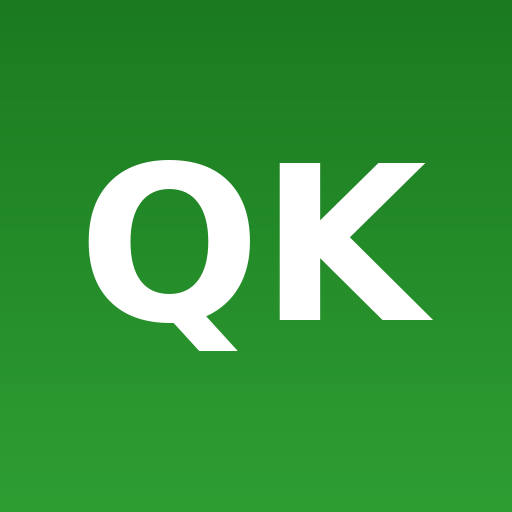
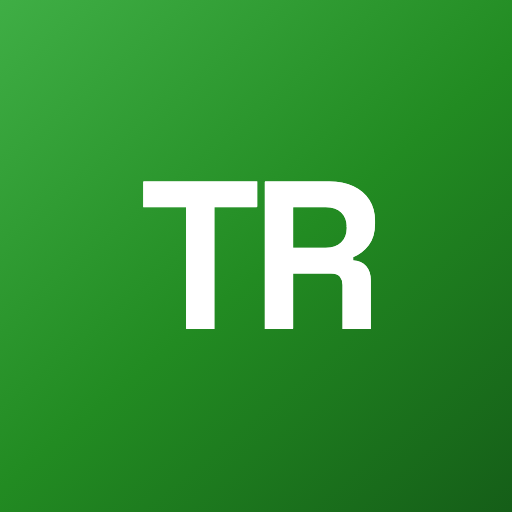
App: four daily tabs, TR branding, and a read-before-you-send nudge
The bottom bar now carries the four things an owner does every day -
Home, Quotes, Work, Money. Pipeline is called Quotes. Setup and Help
were taking two of five slots for screens people open once a month,
so they moved into the avatar sheet next to the company switcher.

Work is the shop floor for machine shops and a small hub for the
truck board and the yard for traders. Money is the Tally page. Home
gave up the machine-floor and Tally cards and is now just the
morning glance: the numbers, what you won, who needs chasing today.

Every page still maps to a nav item, so the highlight pill follows
you into the floor or the bills drill instead of guessing.

Reminders now ask first. Tapping the polite reminder opens a sheet
with the bill, the days overdue, the interest estimate and the exact
message, and only then offers WhatsApp. The message itself is
unchanged - it stays the one we wrote. Building this exposed that
the Tally page returns early for each view, so a sheet defined at
the end of the file never appeared in the drill-down where the
button actually is.

Finally the old name is gone from the icons: the home-screen icon
and all three login tiles said QK. They now carry the TR mark, and
the tagline says what the app is for rather than what it used to be.

diff --git a/src/App.jsx b/src/App.jsx
@@ -372,10 +372,18 @@ input[type=range]::-webkit-slider-thumb{-webkit-appearance:none; width:28px; hei
 `;
 
 /* ---------------- icons ---------------- */
+/* which bottom-nav item owns each page. Work is a hub - the floor, the truck
+   board and the yard all sit under it; pages missing here (setup/help, reached
+   from the avatar sheet) hide the pill rather than leave it stranded. */
+const NAV_OF = { home: "home", quotes: "quotes", work: "work", floor: "work", trucks: "work", stock: "work", tally: "tally" };
 const I = {
   home: (p) => (<svg width="23" height="23" viewBox="0 0 24 24" fill="none" {...p}><path d="M3.5 10.5 12 3.5l8.5 7v8.2a1.8 1.8 0 0 1-1.8 1.8h-3.4v-6.1H8.7v6.1H5.3a1.8 1.8 0 0 1-1.8-1.8v-8.2Z" stroke="currentColor" strokeWidth="1.8" strokeLinejoin="round"/></svg>),
   list: (p) => (<svg width="23" height="23" viewBox="0 0 24 24" fill="none" {...p}><path d="M8.5 6.5h11M8.5 12h11M8.5 17.5h11" stroke="currentColor" strokeWidth="1.8" strokeLinecap="round"/><circle cx="4.6" cy="6.5" r="1.3" fill="currentColor"/><circle cx="4.6" cy="12" r="1.3" fill="currentColor"/><circle cx="4.6" cy="17.5" r="1.3" fill="currentColor"/></svg>),
   gear: (p) => (<svg width="23" height="23" viewBox="0 0 24 24" fill="none" {...p}><circle cx="12" cy="12" r="3.2" stroke="currentColor" strokeWidth="1.8"/><path d="M12 2.8v2.6M12 18.6v2.6M21.2 12h-2.6M5.4 12H2.8M18.5 5.5l-1.9 1.9M7.4 16.6l-1.9 1.9M18.5 18.5l-1.9-1.9M7.4 7.4 5.5 5.5" stroke="currentColor" strokeWidth="1.8" strokeLinecap="round"/></svg>),
+  /* Work - a machine on the floor (not a gear: gear reads as settings) */
+  gear2: (p) => (<svg width="23" height="23" viewBox="0 0 24 24" fill="none" {...p}><rect x="3.3" y="5.6" width="17.4" height="8.4" rx="2.2" stroke="currentColor" strokeWidth="1.8"/><path d="M7.2 14v1.6M16.8 14v1.6" stroke="currentColor" strokeWidth="1.8" strokeLinecap="round"/><circle cx="7.2" cy="18" r="2.1" stroke="currentColor" strokeWidth="1.8"/><circle cx="16.8" cy="18" r="2.1" stroke="currentColor" strokeWidth="1.8"/></svg>),
+  /* Money - a rupee */
+  rupee: (p) => (<svg width="23" height="23" viewBox="0 0 24 24" fill="none" {...p}><path d="M8.2 5.4h7.6M8.2 9.3h7.6M8.2 5.4c3.5 0 5.5 1.3 5.5 3.9s-2 3.9-5.5 3.9M8.4 13.2l6.9 5.4" stroke="currentColor" strokeWidth="1.8" strokeLinecap="round" strokeLinejoin="round"/></svg>),
   plus: (p) => (<svg width="27" height="27" viewBox="0 0 24 24" fill="none" {...p}><path d="M12 5v14M5 12h14" stroke="currentColor" strokeWidth="2.4" strokeLinecap="round"/></svg>),
   back: (p) => (<svg width="21" height="21" viewBox="0 0 24 24" fill="none" {...p}><path d="m14.5 6-6 6 6 6" stroke="currentColor" strokeWidth="2" strokeLinecap="round" strokeLinejoin="round"/></svg>),
   wa: (p) => (<svg width="19" height="19" viewBox="0 0 24 24" fill="currentColor" {...p}><path d="M12 2a9.9 9.9 0 0 0-8.5 15L2 22l5.2-1.4A9.9 9.9 0 1 0 12 2Zm5.6 14c-.24.66-1.4 1.3-1.93 1.34-.52.05-1 .24-3.4-.7-2.87-1.13-4.7-4.05-4.84-4.24-.14-.19-1.16-1.55-1.16-2.95s.74-2.09 1-2.38c.26-.28.57-.35.76-.35h.55c.18 0 .42-.06.65.5.24.57.8 1.97.87 2.11.07.14.12.31.02.5-.09.19-.14.3-.28.47-.14.17-.3.37-.43.5-.14.14-.29.3-.12.58.16.28.73 1.2 1.57 1.95 1.08.96 1.99 1.26 2.27 1.4.28.14.45.12.61-.07.17-.19.7-.82.89-1.1.19-.28.38-.23.64-.14.26.1 1.65.78 1.93.92.28.14.47.21.54.33.07.12.07.66-.17 1.32Z"/></svg>),
@@ -1229,11 +1237,11 @@ function Auth({ onAuthed, authError }) {
     return (
       <div className="auth">
         <div className="auth-top">
-          <div className="auth-logo">QK</div>
+          <div className="auth-logo">TR</div>
           {/* NOT var(--grn): that is #228B22, the exact middle stop of this header's
     own gradient, so "Rakho" was invisible and the wordmark read "Track" */}
 <h1>Track<span style={{ color: "#B9F2BE" }}>Rakho</span></h1>
-          <p>Quotations in five minutes - built for India's job-shops.</p>
+          <p>{tx("Your whole business, in your pocket.", "Aapka poora business, aapki jeb mein.", "\u0906\u092A\u0915\u093E \u092A\u0942\u0930\u093E \u092C\u093F\u095B\u0928\u0947\u0938, \u0906\u092A\u0915\u0940 \u091C\u0947\u092C \u092E\u0947\u0902\u0964")}</p>
         </div>
         <div className="auth-body">
           {stage === "enter" ? (
@@ -1321,11 +1329,11 @@ function Auth({ onAuthed, authError }) {
   return (
     <div className="auth">
       <div className="auth-top">
-        <div className="auth-logo">QK</div>
+        <div className="auth-logo">TR</div>
         {/* NOT var(--grn): that is #228B22, the exact middle stop of this header's
     own gradient, so "Rakho" was invisible and the wordmark read "Track" */}
 <h1>Track<span style={{ color: "#B9F2BE" }}>Rakho</span></h1>
-        <p>Quotations in five minutes - built for India's job-shops.</p>
+        <p>{tx("Your whole business, in your pocket.", "Aapka poora business, aapki jeb mein.", "\u0906\u092A\u0915\u093E \u092A\u0942\u0930\u093E \u092C\u093F\u095B\u0928\u0947\u0938, \u0906\u092A\u0915\u0940 \u091C\u0947\u092C \u092E\u0947\u0902\u0964")}</p>
       </div>
       <div className="auth-body">
         <div className="seg">
@@ -1938,7 +1946,12 @@ export default function App() {
   useEffect(() => {
     let tries = 0, raf, t;
     const measure = () => {
-      const btn = navBtns.current[tab], bar = navRef.current;
+      /* sub-pages map onto the nav item that owns them (the floor/trucks/stock
+         all live under Work); pages with no nav home hide the pill instead of
+         leaving it stuck under the previously active item */
+      const key = NAV_OF[tab];
+      if (!key) { setPillStyle((p) => (p.opacity === 0 ? p : { opacity: 0 })); return; }
+      const btn = navBtns.current[key], bar = navRef.current;
       if (!btn || !bar) {
         /* layout not ready yet on first paint - keep retrying briefly */
         if (tries++ < 30) { t = setTimeout(measure, 40); }
@@ -2067,7 +2080,11 @@ export default function App() {
         {tab === "help" && <Help data={data} ping={ping} startTut={startTut} />}
         {tab === "analytics" && <Analytics data={data} onBack={() => setTab("home")} goQuotes={goQuotes} />}
         {tab === "tally" && <TallyInsights data={data} updateQuote={updateQuote} ping={ping} onBack={() => setTab("home")} />}
-        {tab === "floor" && <MachineFloor data={data} setData={setData} ping={ping} onBack={() => setTab("home")} goSetup={() => setTab("setup")} draft={floorDraft} clearDraft={() => setFloorDraft(null)} />}
+        {/* WORK - machine shops land straight on the floor; traders get a hub
+            for the truck board and the yard (both still open as their own tabs,
+            which NAV_OF maps back under Work) */}
+        {tab === "work" && industryOf(data).key !== "machining" && <WorkHub data={data} openTrucks={() => setTab("trucks")} openStock={() => setTab("stock")} />}
+        {(tab === "floor" || (tab === "work" && industryOf(data).key === "machining")) && <MachineFloor data={data} setData={setData} ping={ping} onBack={() => setTab("home")} goSetup={() => setTab("setup")} draft={floorDraft} clearDraft={() => setFloorDraft(null)} />}
         {tab === "trucks" && <TruckBoard data={data} setData={setData} ping={ping} onBack={() => setTab("home")} goSetup={() => setTab("setup")} />}
         {tab === "stock" && <StockYard data={data} setData={setData} ping={ping} onBack={() => setTab("home")} />}
         {tab === "subscribe" && <Subscribe account={accountView} onSubscribe={(id) => { subscribe(id); ping("You're on the " + PLANS.find(p => p.id === id).name + " plan"); setTab("home"); }} onBack={() => setTab("home")} />}
@@ -2094,6 +2111,23 @@ export default function App() {
               ))}
               <button className="btn btn-ghost press" style={{ width: "100%", marginTop: 4 }} onClick={addCompany}>+ {tx("Add a company", "Nayi company jodo", "नई कंपनी जोड़ें")}</button>
               <div className="hint" style={{ marginTop: 10, textAlign: "center" }}>{tx("Each company's quotes, Tally and settings stay fully separate.", "Har company ke quotes, Tally aur settings bilkul alag rehte hain.", "हर कंपनी का डेटा बिल्कुल अलग रहता है।")}</div>
+
+              {/* Setup and Help live here now - the bottom bar is for the four
+                  daily jobs, and these two are visited rarely */}
+              <div style={{ borderTop: "1px solid var(--line)", marginTop: 16, paddingTop: 12 }}>
+                {[["setup", <I.gear />, tx("Setup", "Setup", "सेटअप"), tx("Shop, machines, rates, Tally, login", "Shop, machines, rate, Tally, login", "दुकान, मशीन, रेट, Tally, लॉगिन")],
+                  ["help", <I.help />, tx("Help", "Help", "मदद")], ].map(([k, icon, label, sub]) => (
+                  <button key={k} className="press" onClick={() => { setCoOpen(false); setTab(k); }}
+                    style={{ all: "unset", boxSizing: "border-box", cursor: "pointer", width: "100%", display: "flex", alignItems: "center", gap: 13, padding: "12px 4px" }}>
+                    <span style={{ width: 38, height: 38, borderRadius: 12, background: "var(--soft)", color: "var(--grn-d)", display: "flex", alignItems: "center", justifyContent: "center", flexShrink: 0 }}>{icon}</span>
+                    <span style={{ flex: 1, minWidth: 0 }}>
+                      <span style={{ display: "block", fontWeight: 600, fontSize: 15.5 }}>{label}</span>
+                      {sub && <span style={{ display: "block", fontSize: 12.5, color: "var(--dim)", marginTop: 1 }}>{sub}</span>}
+                    </span>
+                    <I.chev style={{ color: "var(--faint)", flexShrink: 0 }} />
+                  </button>
+                ))}
+              </div>
             </div>
           </div>
         )}
@@ -2118,18 +2152,48 @@ export default function App() {
           </div>
         )}
 
-        {tab !== "new" && tab !== "analytics" && tab !== "subscribe" && tab !== "log" && tab !== "tally" && tab !== "floor" && tab !== "trucks" && tab !== "stock" && (
+        {/* Home · Quotes · + · Work · Money. Setup and Help moved into the
+            avatar sheet (top right) - the four tabs are the daily jobs. */}
+        {tab !== "new" && tab !== "analytics" && tab !== "subscribe" && tab !== "log" && (
           <nav className="navbar" ref={navRef}>
             <div className="nav-pill" style={pillStyle} />
             <button ref={setNavRef("home")} className={"nav-it " + (tab === "home" ? "on" : "")} onClick={() => setTab("home")}><I.home /><span>{tx("Home", "Home", "होम")}</span></button>
-            <button ref={setNavRef("quotes")} className={"nav-it " + (tab === "quotes" ? "on" : "")} onClick={() => setTab("quotes")}><I.list /><span>{tx("Pipeline", "Pipeline", "पाइपलाइन")}</span></button>
+            <button ref={setNavRef("quotes")} className={"nav-it " + (tab === "quotes" ? "on" : "")} onClick={() => setTab("quotes")}><I.list /><span>{tx("Quotes", "Quotes", "कोटेशन")}</span></button>
             <button className="fab press" data-tut="fab" onClick={() => (industryOf(data).key === "machining" ? setFabOpen(true) : startLog())} aria-label="Add a quote"><I.plus /></button>
-            <button ref={setNavRef("setup")} className={"nav-it " + (tab === "setup" ? "on" : "")} onClick={() => setTab("setup")}><I.gear /><span>{tx("Setup", "Setup", "सेटअप")}</span></button>
-            <button ref={setNavRef("help")} className={"nav-it " + (tab === "help" ? "on" : "")} onClick={() => setTab("help")}><I.help /><span>{tx("Help", "Help", "मदद")}</span></button>
+            <button ref={setNavRef("work")} className={"nav-it " + (NAV_OF[tab] === "work" ? "on" : "")} onClick={() => setTab("work")}><I.gear2 /><span>{tx("Work", "Work", "काम")}</span></button>
+            <button ref={setNavRef("tally")} className={"nav-it " + (tab === "tally" ? "on" : "")} onClick={() => setTab("tally")}><I.rupee /><span>{tx("Money", "Money", "पैसा")}</span></button>
           </nav>
         )}
       </div>
     </div>
+  );
+}
+
+/* ================= WORK (traders) =================
+   Machine shops get the floor itself on this tab. Traders have two work
+   surfaces instead, so this is a small hub. */
+function WorkHub({ data, openTrucks, openStock }) {
+  const out = (data.trips || []).filter((t) => !t.delivered).length;
+  const card = (onClick, emoji, title, sub, badge) => (
+    <button onClick={onClick} className="press anim-in st1" style={{ all: "unset", boxSizing: "border-box", cursor: "pointer", width: "100%", marginTop: 12, display: "flex", alignItems: "center", gap: 12, padding: "16px", borderRadius: 18, background: "#fff", border: "1px solid var(--line)", boxShadow: "var(--sh-s)" }}>
+      <span style={{ width: 44, height: 44, borderRadius: 14, background: "var(--grn-100)", display: "flex", alignItems: "center", justifyContent: "center", fontSize: 21, flexShrink: 0 }}>{emoji}</span>
+      <span style={{ flex: 1, minWidth: 0 }}>
+        <span style={{ display: "block", fontWeight: 700, fontSize: 16 }}>{title}</span>
+        <span style={{ display: "block", fontSize: 12.5, color: "var(--dim)", marginTop: 2 }}>{sub}</span>
+      </span>
+      {badge}
+      <I.chev style={{ color: "var(--faint)", flexShrink: 0 }} />
+    </button>
+  );
+  return (
+    <div className="scr"><div className="pagepad">
+      <div className="microlbl">{tx("YOUR WORK", "AAPKA KAAM", "आपका काम")}</div>
+      <div className="h-disp" style={{ fontSize: 26, fontWeight: 700, margin: "4px 0 4px" }}>{tx("The yard today", "Aaj ka kaam", "आज का काम")}</div>
+      <div style={{ color: "var(--dim)", fontSize: 14.5, lineHeight: 1.55 }}>{tx("Trucks on the road and what the yard is holding.", "Gaadiyan kahan hain aur yard mein kitna maal hai.", "गाड़ियाँ कहाँ हैं और यार्ड में कितना माल है।")}</div>
+      {card(openTrucks, "\u{1F69B}", tx("Truck board", "Truck board", "ट्रक बोर्ड"), tx("Which truck is out, carrying what, for how long.", "Kaunsi gaadi bahar hai, kya le kar, kitni der se.", "कौन सी गाड़ी बाहर है, क्या लेकर।"),
+        out > 0 ? <span className="mono" style={{ flexShrink: 0, fontSize: 10.5, fontWeight: 700, color: "var(--amber)", background: "var(--amber-bg, #FFF4E0)", borderRadius: 999, padding: "4px 10px" }}>{out} OUT</span> : null)}
+      {card(openStock, "⚖", tx("Yard stock", "Yard stock", "यार्ड स्टॉक"), tx("Book stock vs the kanta - catch ghata early.", "Book stock vs kanta - ghata jaldi pakdo.", "बुक स्टॉक बनाम कांटा - घाटा जल्दी पकड़ें।"), null)}
+    </div></div>
   );
 }
 
@@ -2259,18 +2323,8 @@ function Home({ data, account, onNew, onLog, goQuotes, openAnalytics, openTally,
         </div>
       )}
 
-      {/* machining: live shop floor */}
-      {isMach && (
-        <button onClick={openFloor} className="press anim-in st3" style={{ all: "unset", boxSizing: "border-box", cursor: "pointer", width: "100%", marginTop: 12, display: "flex", alignItems: "center", gap: 12, padding: "15px 16px", borderRadius: 18, background: "#fff", border: "1px solid var(--line)", boxShadow: "var(--sh-s)" }}>
-          <span style={{ width: 40, height: 40, borderRadius: 12, background: "var(--grn-100)", display: "flex", alignItems: "center", justifyContent: "center", fontSize: 19, flexShrink: 0 }}>🛠</span>
-          <span style={{ flex: 1, minWidth: 0 }}>
-            <span style={{ display: "block", fontWeight: 700, fontSize: 15 }}>{tx("Machine floor", "Machine floor", "मशीन फ्लोर")}</span>
-            <span style={{ display: "block", fontSize: 12.5, color: "var(--dim)" }}>{flUnits.length ? flBusy.size + "/" + flUnits.length + tx(" machines running work", " machines par kaam chal raha", " मशीनों पर काम चल रहा") : tx("Which machine is running what - live", "Kaun si machine par kya chal raha hai - live", "कौन सी मशीन पर क्या चल रहा है - लाइव")}</span>
-          </span>
-          {flActive.length > 0 && <span className="mono" style={{ fontSize: 11, fontWeight: 700, color: "var(--grn-d)", background: "var(--grn-100)", padding: "4px 9px", borderRadius: 999, flexShrink: 0 }}>{flActive.length} ON</span>}
-          <I.chev style={{ color: "var(--faint)" }} />
-        </button>
-      )}
+      {/* machine floor now lives on the Work tab, Tally on Money -
+         home is the morning glance only */}
 
       {/* scrap: live truck board */}
       {ind.key === "scrap" && (
@@ -2309,15 +2363,6 @@ function Home({ data, account, onNew, onLog, goQuotes, openAnalytics, openTally,
         </button>
       )}
 
-      {/* Tally insights - only for trades that actually run Tally */}
-      {ind.tally && <button onClick={openTally} className="press anim-in st3" style={{ all: "unset", boxSizing: "border-box", cursor: "pointer", width: "100%", marginTop: 12, display: "flex", alignItems: "center", gap: 12, padding: "15px 16px", borderRadius: 18, background: "linear-gradient(135deg,#10240F,#1B5E20)", color: "#fff", boxShadow: "var(--sh-m)" }}>
-        <span style={{ width: 40, height: 40, borderRadius: 12, background: "rgba(255,255,255,.14)", display: "flex", alignItems: "center", justifyContent: "center", fontSize: 19, flexShrink: 0 }}>📒</span>
-        <span style={{ flex: 1, minWidth: 0 }}>
-          <span style={{ display: "block", fontWeight: 700, fontSize: 15 }}>{tx("Tally - the plain picture", "Tally - seedha hisaab", "Tally - सीधा हिसाब")}</span>
-          <span style={{ display: "block", fontSize: 12.5, color: "rgba(255,255,255,.8)" }}>{tx("Money due, goods shipped, orders left - without opening Tally.", "Baki paisa, maal gaya, order kitna bacha - bina Tally khole.", "बाकी पैसा, माल गया, ऑर्डर कितना बचा - बिना Tally खोले।")}</span>
-        </span>
-        <I.chev style={{ color: "rgba(255,255,255,.8)" }} />
-      </button>}
 
       {catStats.length > 0 && (<>
         <div className="anim-in st3" style={{ display: "flex", justifyContent: "space-between", alignItems: "center", margin: "24px 0 10px" }}>
@@ -3313,6 +3358,56 @@ function TallyInsights({ data, updateQuote, ping, onBack }) {
   const [plannerOpen, setPlannerOpen] = useState(false); // dispatch planner collapsed by default (first-look clutter)
   const [openBill, setOpenBill] = useState(null); // expanded bill key in the bills drill-down
   const [billFilter, setBillFilter] = useState("all"); // aging-bucket filter in the bills drill-down
+  /* confirm sheet before any reminder leaves - the owner reads the exact
+     words first. The message itself is msmedChaseText(), unchanged. */
+  const [nudge, setNudge] = useState(null); // {party, ref, pending, late, byaj, msg, phone}
+
+  /* built once and rendered by every view - TallyInsights returns early per
+     view, so a sheet living only in the overview return never appears in the
+     bills drill where the reminder button actually is */
+  const nudgeSheet = nudge ? (
+        <div onClick={() => setNudge(null)} style={{ position: "fixed", inset: 0, zIndex: 80, background: "rgba(16,26,20,.45)", backdropFilter: "blur(3px)", display: "flex", flexDirection: "column", justifyContent: "flex-end" }}>
+          <div className="anim-in" onClick={(e) => e.stopPropagation()} style={{ background: "#fff", borderRadius: "26px 26px 0 0", padding: "20px 18px calc(18px + env(safe-area-inset-bottom))", maxHeight: "88%", overflowY: "auto", boxShadow: "0 -20px 50px -20px rgba(21,94,24,.4)" }}>
+            <div style={{ width: 40, height: 4, borderRadius: 3, background: "var(--line2)", margin: "0 auto 16px" }} />
+            <div className="h-disp" style={{ fontSize: 22, fontWeight: 700 }}>{tx("A gentle reminder", "Ek vinamra yaad", "एक विनम्र याद")}</div>
+            <div style={{ fontSize: 13.5, color: "var(--dim)", margin: "5px 0 14px", lineHeight: 1.55 }}>
+              {tx("Your customer, your words. Read it before it goes.", "Aapka customer, aapke shabd. Bhejne se pehle padh lijiye.", "आपका ग्राहक, आपके शब्द। भेजने से पहले पढ़ लें।")}
+            </div>
+
+            <div className="card" style={{ padding: "12px 14px", marginBottom: 12 }}>
+              <div style={{ display: "flex", justifyContent: "space-between", alignItems: "baseline", gap: 10 }}>
+                <span className="mono" style={{ fontSize: 12.5, color: "var(--dim)" }}>{nudge.ref || tx("bill", "bill", "बिल")}</span>
+                <b style={{ fontSize: 14.5, textAlign: "right" }}>{nudge.party}</b>
+              </div>
+              <div style={{ display: "flex", justifyContent: "space-between", alignItems: "baseline", gap: 10, marginTop: 9, paddingTop: 9, borderTop: "1px solid var(--line)" }}>
+                <span style={{ fontSize: 13.5, color: "var(--dim)" }}>{nudge.late > 0 ? tx("Overdue by ", "Late ", "देर ") + nudge.late + tx(" days", " din", " दिन") : tx("Pending", "Baki", "बाकी")}</span>
+                <b className="mono" style={{ fontSize: 16, color: "var(--red)" }}>{inr(nudge.pending)}</b>
+              </div>
+              {nudge.byaj > 0 && (
+                <div style={{ display: "flex", justifyContent: "space-between", alignItems: "baseline", gap: 10, marginTop: 6 }}>
+                  <span style={{ fontSize: 12.5, color: "var(--dim)" }}>{tx("MSMED interest (est.)", "Kanooni byaj (andaza)", "कानूनी ब्याज (अंदाज़ा)")}</span>
+                  <span className="mono" style={{ fontSize: 13, color: "#DC2626" }}>+{inr(nudge.byaj)}</span>
+                </div>
+              )}
+            </div>
+
+            <div style={{ background: "#EAF6EA", border: "1px solid #CFE3D1", borderRadius: "14px 14px 14px 4px", padding: "12px 13px", whiteSpace: "pre-wrap", fontSize: 13.5, lineHeight: 1.6, color: "#14261A" }}>{nudge.msg}</div>
+
+            <div style={{ display: "flex", gap: 9, alignItems: "flex-start", marginTop: 11, fontSize: 12.5, color: "var(--dim)", lineHeight: 1.55 }}>
+              <span aria-hidden="true" style={{ flexShrink: 0 }}>&#128274;</span>
+              <span>{tx("Nothing is sent yet. WhatsApp opens with this text from your own number - you can edit it there.", "Abhi kuch nahi gaya. WhatsApp aapke apne number se khulega, text aap wahan badal bhi sakte hain.", "अभी कुछ नहीं भेजा गया। WhatsApp आपके अपने नंबर से खुलेगा।")}</span>
+            </div>
+
+            <div style={{ display: "flex", gap: 10, marginTop: 16 }}>
+              <button className="btn btn-ghost press" style={{ flex: 1, justifyContent: "center" }} onClick={() => setNudge(null)}>{tx("Cancel", "Rehne do", "रहने दें")}</button>
+              <a className="btn btn-grn press" style={{ flex: 1.4, justifyContent: "center", textDecoration: "none", boxSizing: "border-box" }}
+                href={waLink(nudge.phone, nudge.msg)} target="_blank" rel="noreferrer" onClick={() => setNudge(null)}>
+                {tx("Open WhatsApp", "WhatsApp kholo", "WhatsApp खोलें")}
+              </a>
+            </div>
+          </div>
+        </div>
+  ) : null;
 
   useEffect(() => {
     let alive = true;
@@ -3659,11 +3754,11 @@ function TallyInsights({ data, updateQuote, ping, onBack }) {
                       <span style={{ fontSize: 12, fontWeight: 600, color: "#991B1B" }}>{tx("MSMED interest (est.)", "Kanooni byaj (andaza)", "कानूनी ब्याज (अंदाज़ा)")} · {msmedRateNow()}{tx("% compound", "% compound", "% चक्रवृद्धि")}{late <= 0 ? tx(" (45-day rule)", " (45 din ka niyam)", " (45 दिन का नियम)") : ""}</span>
                       <b className="mono" style={{ fontSize: 13.5, color: "#DC2626", flexShrink: 0 }}>+{inr(msmedByaj(x, now))}</b>
                     </div>
-                    <a className="btn btn-grn btn-sm press" style={{ width: "100%", boxSizing: "border-box", textDecoration: "none", marginTop: 8, justifyContent: "center" }}
-                      href={waLink(phoneFor(x.party), msmedChaseText(data.shopName, x.ref, pending, late, msmedByaj(x, now)))}
-                      target="_blank" rel="noreferrer">
+                    <button className="btn btn-grn btn-sm press" style={{ width: "100%", boxSizing: "border-box", marginTop: 8, justifyContent: "center" }}
+                      onClick={() => setNudge({ party: x.party, ref: x.ref, pending, late, byaj: msmedByaj(x, now), phone: phoneFor(x.party),
+                        msg: msmedChaseText(data.shopName, x.ref, pending, late, msmedByaj(x, now)) })}>
                       {"🙏"} {tx("Send a polite reminder on WhatsApp", "WhatsApp par narmi se yaad dilao", "WhatsApp पर विनम्रता से याद दिलाएं")}
-                    </a>
+                    </button>
                   </>)}
                   <div style={{ fontSize: 12.5, color: "var(--dim)", marginTop: 10, borderTop: "1px dashed var(--line)", paddingTop: 9 }}>
                     {x.party}{tx(" owes in total ", " par total baki ", " पर कुल बाकी ")}<b className="mono">{inr(balanceOf(x.party))}</b>
@@ -3679,6 +3774,7 @@ function TallyInsights({ data, updateQuote, ping, onBack }) {
           {tx("This comes from Tally's Bills Receivable - every open bill with its due date. Chasing a specific bill number gets paid faster than asking for a lump sum.", "Ye Tally ke Bills Receivable se aata hai - har khula bill uski due date ke saath. 'Bill no 142, Rs 84,500, 43 din' bol kar maangne se paisa jaldi aata hai.", "यह Tally के Bills Receivable से आता है - हर खुला बिल उसकी ड्यू डेट के साथ। खास बिल नंबर बताकर मांगने से पैसा जल्दी आता है।")}
           {showByaj && <span> {tx("Interest figures are estimates under MSMED s.16 for Udyam-registered manufacturer/service MSEs (Udyam must predate the bill); traders are not covered.", "Byaj ke aankde MSMED s.16 ka andaza hain - sirf Udyam-registered manufacturer/service MSE ke liye (Udyam bill se pehle ka ho); trader cover nahi hote.", "ब्याज के आंकड़े MSMED s.16 का अंदाज़ा हैं - सिर्फ उद्यम-पंजीकृत निर्माता/सेवा MSE के लिए (उद्यम बिल से पहले का हो); ट्रेडर कवर नहीं होते।")}</span>}
         </div>
+        {nudgeSheet}
       </div></div>
     );
   }
@@ -3938,6 +4034,11 @@ function TallyInsights({ data, updateQuote, ping, onBack }) {
         </span>
       </div>
       </>)}
+
+      {/* Read-before-you-send sheet. The message is msmedChaseText() word for
+          word - this only shows it and asks. Nothing is sent by the app: the
+          button hands the text to WhatsApp on the owner's own number. */}
+      {nudgeSheet}
     </div></div>
   );
 }
@@ -4735,7 +4836,7 @@ function NewAccountGuard({ account, onKeep }) {
     <div className="qk-root"><style>{CSS}</style><div className="app">
       <div className="auth">
         <div className="auth-top">
-          <div className="auth-logo">QK</div>
+          <div className="auth-logo">TR</div>
           <h1>{tx("One last thing", "Ek aakhri baat", "एक आखिरी बात")}</h1>
           <p>{account.phone || ""}</p>
         </div>
@@ -4831,14 +4932,18 @@ function LoginMethods({ account, ping }) {
     } catch (e) { localStorage.removeItem(LINK_FLAG); setErr(say(e)); setBusy(false); }
   };
 
-  const row = (on, label, value, action) => (
-    <div style={{ display: "flex", alignItems: "center", gap: 11, padding: "11px 0", borderTop: "1px solid var(--line)" }}>
-      <span style={{ width: 22, height: 22, borderRadius: "50%", flex: "none", display: "grid", placeItems: "center", background: on ? "var(--grn-100)" : "var(--soft)", color: on ? "var(--grn-d)" : "var(--faint)", fontSize: 12 }}>{on ? "✓" : "+"}</span>
+  /* one line per login method. `first` drops the divider so the list does not
+     open with a stray rule under the description, the tick is a fixed 26px
+     column so both rows align, and the action button never shrinks the text
+     off the card (long emails ellipsis instead). */
+  const row = (on, label, value, action, first) => (
+    <div style={{ display: "flex", alignItems: "center", gap: 12, padding: "13px 0", borderTop: first ? "none" : "1px solid var(--line)" }}>
+      <span style={{ width: 26, height: 26, borderRadius: "50%", flex: "none", display: "grid", placeItems: "center", background: on ? "var(--grn-100)" : "var(--soft)", color: on ? "var(--grn-d)" : "var(--faint)", fontSize: 13, fontWeight: 700, lineHeight: 1 }}>{on ? "✓" : "+"}</span>
       <div style={{ flex: 1, minWidth: 0 }}>
-        <div style={{ fontSize: 14.5, fontWeight: 600 }}>{label}</div>
-        <div style={{ fontSize: 12.5, color: "var(--dim)", overflow: "hidden", textOverflow: "ellipsis", whiteSpace: "nowrap" }}>{value}</div>
+        <div style={{ fontSize: 15, fontWeight: 600, lineHeight: 1.3 }}>{label}</div>
+        <div style={{ fontSize: 12.5, color: "var(--dim)", marginTop: 1, overflow: "hidden", textOverflow: "ellipsis", whiteSpace: "nowrap" }}>{value}</div>
       </div>
-      {action}
+      {action ? <span style={{ flex: "none" }}>{action}</span> : null}
     </div>
   );
 
@@ -4851,9 +4956,10 @@ function LoginMethods({ account, ping }) {
             "दोनों जोड़ लें - दोनों से यही अकाउंट खुलेगा, सारे डेटा के साथ।")}
       </div>
 
+      <div style={{ marginTop: 12 }} />
       {row(hasPhone, tx("Phone number", "Phone number", "फोन नंबर"),
         hasPhone ? account.phone || tx("Added", "Jud gaya", "जुड़ा हुआ") : tx("Not added yet", "Abhi nahi juda", "अभी नहीं जुड़ा"),
-        !hasPhone && !openAdd ? <button className="btn btn-ghost btn-sm press" onClick={() => { setOpenAdd(true); setErr(""); }}>{tx("Add", "Jodein", "जोड़ें")}</button> : null)}
+        !hasPhone && !openAdd ? <button className="btn btn-ghost btn-sm press" onClick={() => { setOpenAdd(true); setErr(""); }}>{tx("Add", "Jodein", "जोड़ें")}</button> : null, true)}
 
       {openAdd && !hasPhone && (
         <div className="anim-in" style={{ padding: "2px 0 12px" }}>

diff --git a/index.html b/index.html
@@ -4,7 +4,7 @@
     <meta charset="UTF-8" />
     <meta name="viewport" content="width=device-width, initial-scale=1.0, maximum-scale=1.0, user-scalable=no, viewport-fit=cover" />
     <title>TrackRakho</title>
-    <meta name="description" content="Quotations in five minutes — built for India's CNC job-shops." />
+    <meta name="description" content="Your whole business, in your pocket - quotes, orders, machines and money for India's job-shops and traders." />
 
     <!-- PWA: makes it installable to the home screen -->
     <link rel="manifest" href="/manifest.json" />

diff --git a/CLAUDE.md b/CLAUDE.md
@@ -34,6 +34,16 @@ It began as a **quotation maker**; field visits are pushing it toward a **quote 
 - Support WhatsApp (real): `919910605207`.
 - **Guided tutorials + trust copy (2026-07-31, user ask before field handover):** Pipedrive-style coach marks. `TUTS` (module const) = 3 flows: walog (WhatsApp paste -> auto-fill -> save), pipeline (filters/card actions/daily habit), fullquote (machining-gated via `mach: true`). Steps = {t, b: [en, hinglish, hindi] triplets rendered via tx(), target: "key" or ["fallback","list"] matched against `[data-tut]` attributes (first present in DOM wins - lets the FAB step retarget to the chooser-sheet button when it opens), go: tab to switch on entry, adv: "tab:x" auto-advance watched in an App effect}. `TutOverlay` = fixed spotlight (box-shadow 9999px cutout, pointer-events none so the user can actually tap the highlighted thing) + dark card (auto-positions above/below target, centered when no target); the two backdrop divs carry distinct React keys (tut-cut/tut-dim) - without them React reuses the node and the CSS transition sweeps the cutout across the screen. Entry points: Home "Naye ho? 2 minute mein seekho" card (dismissible, settings.tutHomeDone - additive, v5 kept), "?" chips on QuickLog + Pipeline headers, Help "App seekho" list. Anchors: fab, fab-log, fab-new, paste-btn, ql-save, pipe-filters, pipe-list, pipe-first (first quote card), enq-card/enq-log (demo enquiry only). **v2 (2026-07-31, user: "make them DO the steps"):** walog is now a STAGED LIVE DEMO - startTut injects a fake WhatsApp enquiry (id demo_tut_enq, e.demo flag, parser-friendly text "Rate 61.20/pc" so parseEnquiry yields the full 30,600 total) into the real enquiries panel; the user taps the REAL "Log as quote" button and watches the parsed quote card appear under the spotlight (adv "quote+" fires when quotes count exceeds tut.qn baseline). Demo ENQUIRY is cleaned on tutorial close (tutClose filters e.demo); the created demo QUOTE stays (final step says how to delete). fullquote prefills the wizard draft with the exact anchor inputs (cycle 9 + manual 9.25 + 0.6kg EN8 + tooling 0 + setup 0 = Rs 174.39/pc live in the running-price bar) and lets the wizard itself teach. Keep demo message text parser-compatible when editing. Trust copy ("Data safety hamari pehli priority hai...") on both Auth screens (cloud + local variants differ: account vs on-device wording) and a lock card in Setup above Data. New tutorial strings must keep the triplet format; scrollIntoView on the fixed FAB scrolls the container to top - known, harmless.
 
+## Navigation + IA rework (2026-09-19, user ask after reviewing a ChatGPT-built UI mock)
+Bottom bar is now the four DAILY jobs: **Home | Quotes | (+) | Work | Money**. Pipeline was renamed Quotes; Setup and Help left the bar and live in the AVATAR SHEET (top-right initials -> companies list, then a divider, then Setup and Help rows) - they are visited rarely and were taking two of five slots.
+- `NAV_OF` (module const) maps every page to the nav item that owns it: floor/trucks/stock -> `work`, tally -> `tally`. The measured pill reads NAV_OF[tab]; pages absent from the map (setup/help) HIDE the pill instead of leaving it stranded under the last active item. The nav no longer hides itself on tally/floor/trucks/stock (they are nav destinations now) - only on new/analytics/subscribe/log.
+- **Work** tab: machine shops land straight on `MachineFloor`; traders get `WorkHub` (a two-card hub -> Truck board, Yard stock, with an "N OUT" badge from data.trips). `sendToFloor` still sets tab "floor" and the pill correctly shows Work.
+- **Money** tab = `TallyInsights`. HOME lost the machine-floor card and the Tally card (it is the morning glance only: at-a-glance KPIs, RFQ/Orders boxes, follow-ups due, the "Naye ho" tutorial card).
+- New icons `I.gear2` (a machine on rollers - NOT a gear, which reads as settings) and `I.rupee`.
+- **Nudge confirm sheet:** the MSMED reminder button no longer opens WhatsApp directly. It sets `nudge` state and a bottom sheet shows party/ref/overdue/byaj plus the message VERBATIM from `msmedChaseText()`, with "Rehne do" / "WhatsApp kholo". **The message copy is untouched - never rewrite it** (tone rule stands). Gotcha paid for: `TallyInsights` RETURNS EARLY PER VIEW (`if (view === "bills") return ...`), so a sheet placed at the end of the overview return never renders in the drill-down where the button lives - the sheet is built once into `const nudgeSheet` above the early returns and rendered in both returns.
+- Branding: app icons (192/512) and all three in-app `auth-logo` tiles were still "QK" from the QuoteKaro days - now the TR mark on the green gradient. Login/manifest tagline is now "Your whole business, in your pocket" (was "Quotations in five minutes"). Same TR mark is the WhatsApp Business DP.
+- `LoginMethods` rows: 26px tick column, no divider above the first row, action button in a flex:none wrapper so long emails ellipsis instead of squeezing it.
+
 ## Domain logic (costing) — the math is settled, don't reinvent
 - Quote per piece = material (kg × ₹/kg) + machine (cycleMin/60 × machine ₹/hr, + setupMin/60 × rate ÷ qty) + labour (manualMin/60 × labour rate) + tooling → + overhead% → + margin% → price/pc; total = price × qty (+ GST display).
 - True hourly-rate calculator = depreciation + power (kW × ₹/unit) + operator + maintenance, all per monthly working hours. Seeded example: VMC 850 ≈ ₹366/hr.
